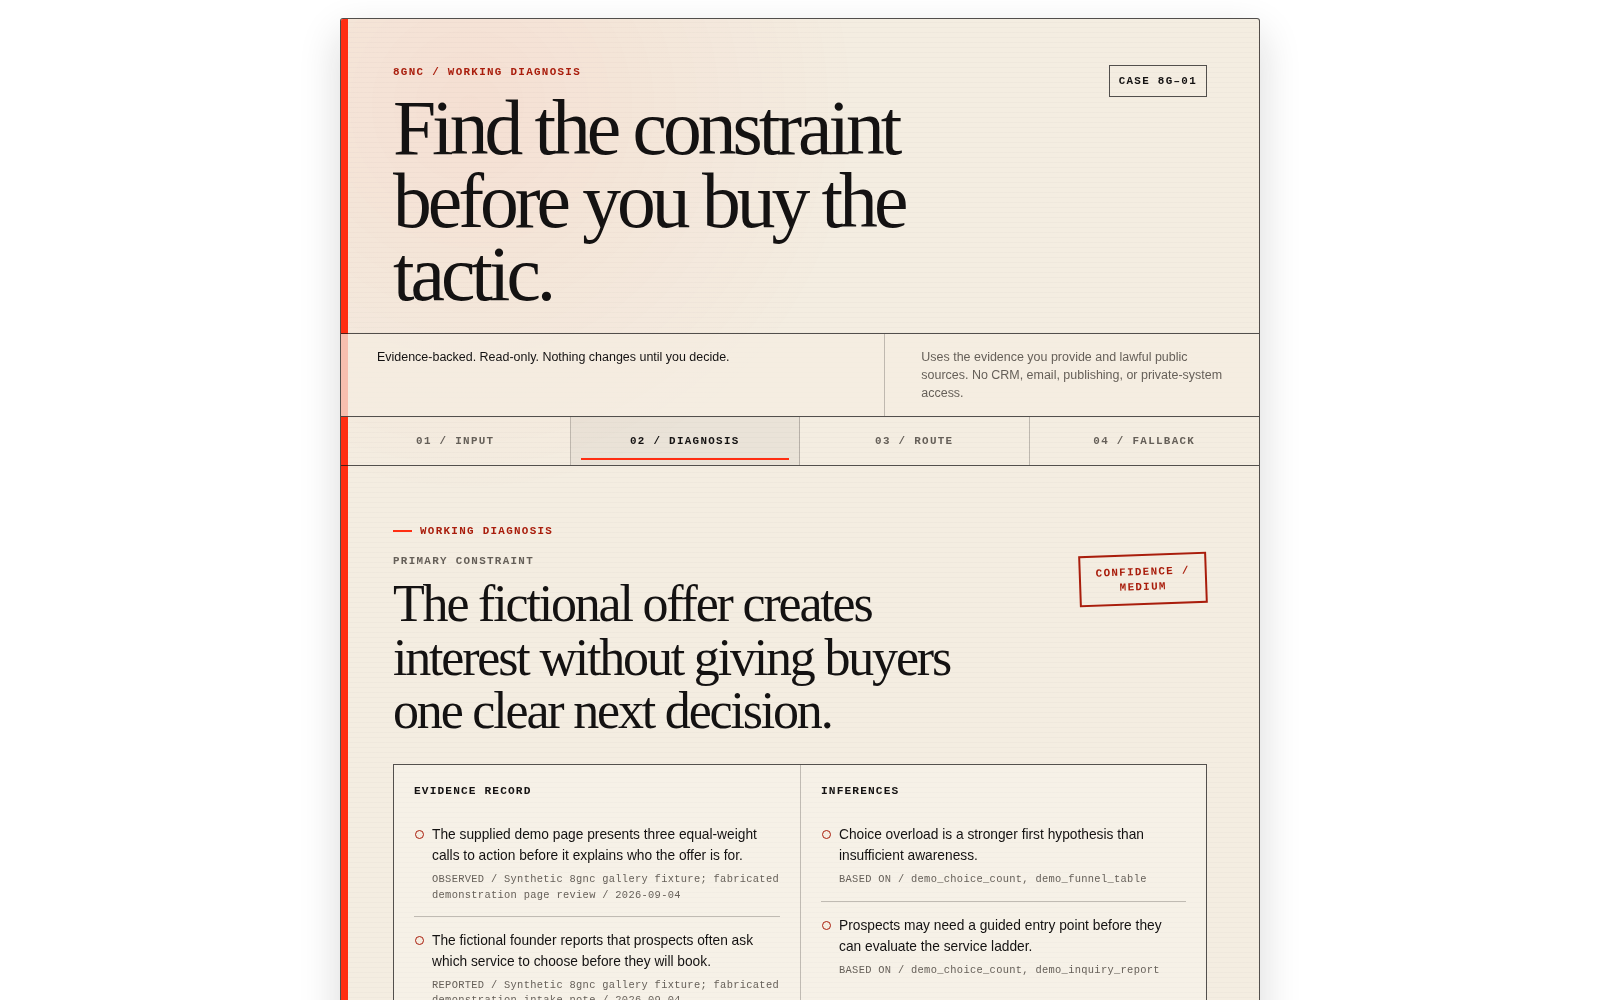
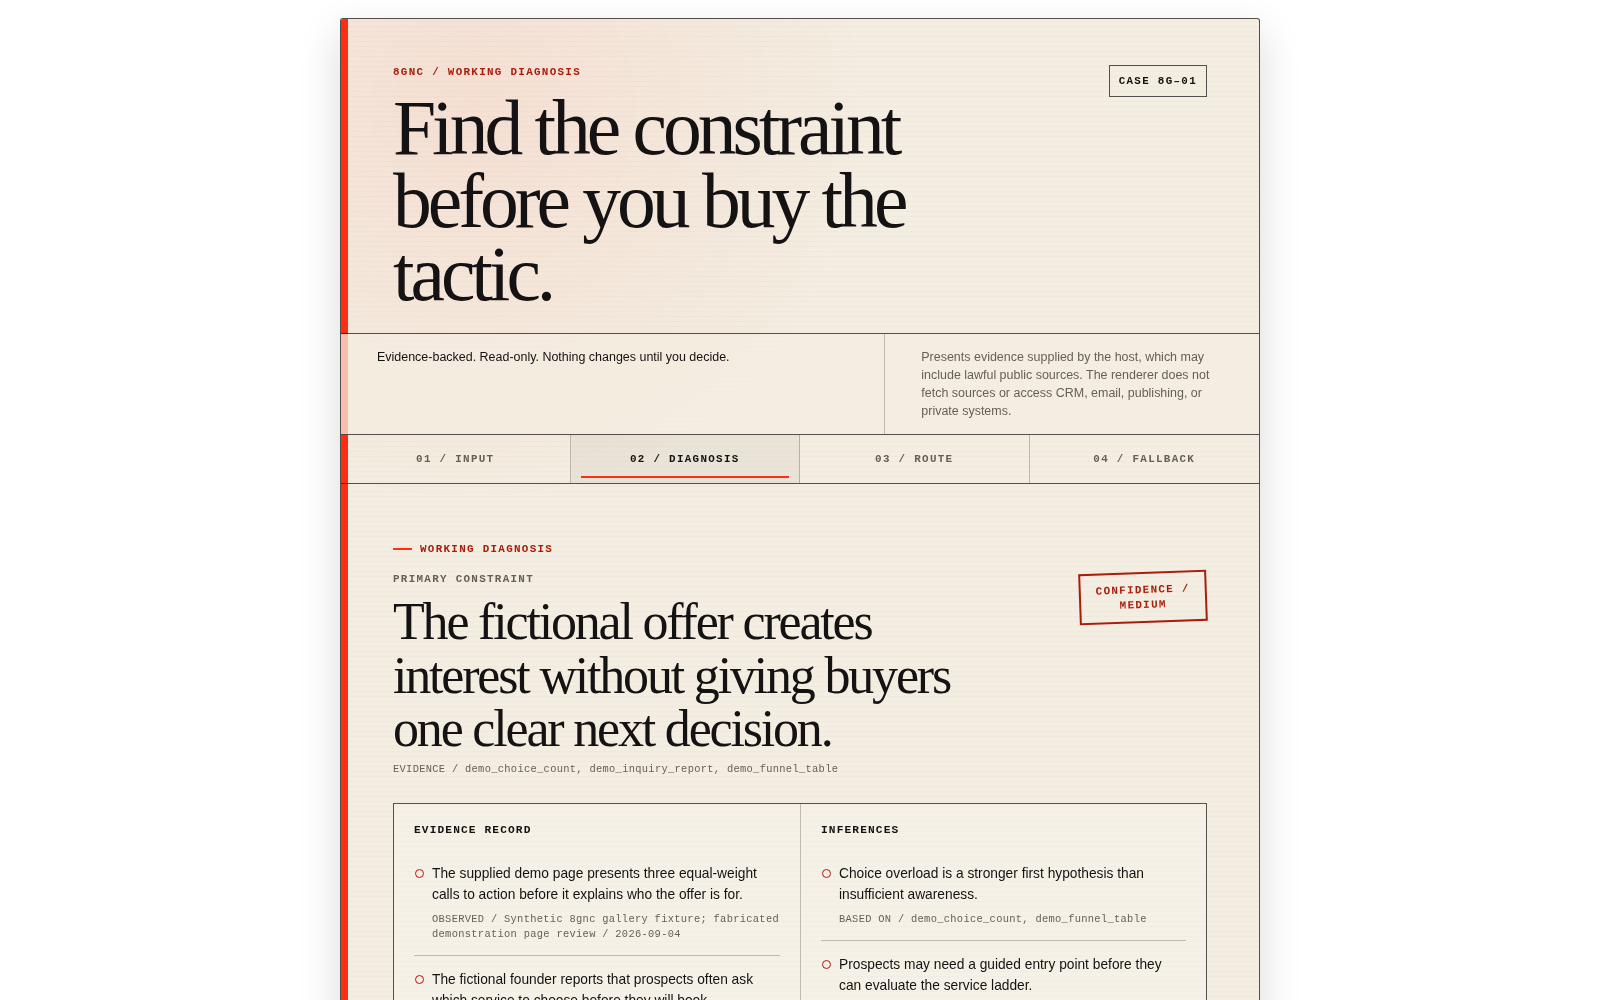
fix: bind working diagnosis claims to evidence

diff --git a/mcp/src/ui.ts b/mcp/src/ui.ts
@@ -626,7 +626,7 @@ export const WORKING_DIAGNOSIS_UI = `<!doctype html>
 
     <div class="status-strip" aria-label="Capability boundary">
       <p id="evidence-status">Read-only. Nothing changes until you decide.</p>
-      <p>Uses the evidence you provide and lawful public sources. No CRM, email, publishing, or private-system access.</p>
+      <p>Presents evidence supplied by the host, which may include lawful public sources. The renderer does not fetch sources or access CRM, email, publishing, or private systems.</p>
     </div>
 
     <nav class="tabs" role="tablist" aria-label="Working diagnosis views">
@@ -658,6 +658,7 @@ export const WORKING_DIAGNOSIS_UI = `<!doctype html>
           <div>
             <span class="field-label">Primary constraint</span>
             <p class="constraint" id="primary-constraint">Awaiting evidence.</p>
+            <span class="record-meta" id="constraint-evidence">EVIDENCE / AWAITING RESULT</span>
           </div>
           <div class="stamp" id="confidence-stamp">Confidence / —</div>
         </div>
@@ -916,6 +917,14 @@ export const WORKING_DIAGNOSIS_UI = `<!doctype html>
           working.hidden = false;
           setText("evidence-status", "Evidence-backed. Read-only. Nothing changes until you decide.", "Evidence-backed. Read-only. Nothing changes until you decide.");
           setText("primary-constraint", diagnosis.primaryConstraint, "Primary constraint not supplied.");
+          var constraintEvidenceIds = asList(diagnosis.primaryConstraintEvidenceIds).filter(function (id) {
+            return typeof id === "string" && id.trim();
+          });
+          setText(
+            "constraint-evidence",
+            constraintEvidenceIds.length ? "EVIDENCE / " + constraintEvidenceIds.join(", ") : "EVIDENCE / NOT SUPPLIED",
+            "EVIDENCE / NOT SUPPLIED"
+          );
           setText("confidence-stamp", "Confidence / " + asText(diagnosis.confidence, "—"), "Confidence / —");
           renderEvidence(asList(diagnosis.evidence));
           renderInferences(asList(diagnosis.inferences));

diff --git a/mcp/src/server.ts b/mcp/src/server.ts
@@ -37,7 +37,7 @@ export function create8gncServer(): McpServer {
     },
     {
       instructions:
-        "Use the installed 8gnc skills to complete the diagnosis before calling render_working_diagnosis. Supply only evidence-backed observations and clearly labeled inferences. If required provenance or a valid as-of date is missing, return status 'blocked'. The renderer validates and presents a supplied diagnosis; it does not originate the diagnosis or decide whether it is correct."
+        "Use the installed 8gnc skills to complete the diagnosis before calling render_working_diagnosis. Supply only evidence-backed observations and clearly labeled inferences. Cite the evidence IDs supporting the primary constraint. If required evidence, provenance, or a valid as-of date is missing, return status 'blocked'. The renderer schema-validates, normalizes, serializes, and presents a supplied diagnosis; it does not originate the diagnosis or decide whether it is correct."
     }
   );
 
@@ -67,7 +67,7 @@ export function create8gncServer(): McpServer {
     {
       title: "Render Working Diagnosis",
       description:
-        "Validate and present an already-completed 8gnc WorkingDiagnosisV1. This renderer does not diagnose, research, fetch, contact, store, publish, send, approve, or change anything. Use status 'blocked' when required provenance or a valid as-of date is missing.",
+        "Schema-validate, normalize, serialize, and present an already-completed 8gnc WorkingDiagnosisV1. This renderer does not diagnose, verify truth, research, fetch, contact, store, publish, send, approve, or change anything. Use status 'blocked' when required evidence, provenance, or a valid as-of date is missing.",
       inputSchema: WorkingDiagnosisV1Schema,
       outputSchema: WorkingDiagnosisResultV1Schema,
       annotations: {

diff --git a/mcp/src/schema.ts b/mcp/src/schema.ts
@@ -106,6 +106,10 @@ export const WorkingDiagnosisSchema = z
     status: z.literal("working"),
     input: DiagnosisInputSchema,
     primaryConstraint: text("primaryConstraint", 2_000),
+    primaryConstraintEvidenceIds: z
+      .array(z.string().trim().min(1))
+      .min(1, "primaryConstraint must cite at least one evidence id")
+      .max(12),
     confidence: z.enum(["low", "medium", "high"]),
     evidence: z.array(EvidenceSchema).min(1, "a working diagnosis requires evidence").max(24),
     inferences: z.array(InferenceSchema).max(16),
@@ -131,6 +135,26 @@ export const WorkingDiagnosisSchema = z
         });
       }
       evidenceIds.add(item.id);
+    }
+
+    const constraintEvidenceIds = new Set<string>();
+    for (const [referenceIndex, evidenceId] of diagnosis.primaryConstraintEvidenceIds.entries()) {
+      if (constraintEvidenceIds.has(evidenceId)) {
+        context.addIssue({
+          code: "custom",
+          message: `duplicate primary constraint evidence reference: ${evidenceId}`,
+          path: ["primaryConstraintEvidenceIds", referenceIndex]
+        });
+      }
+      constraintEvidenceIds.add(evidenceId);
+
+      if (!evidenceIds.has(evidenceId)) {
+        context.addIssue({
+          code: "custom",
+          message: `unknown primary constraint evidence reference: ${evidenceId}`,
+          path: ["primaryConstraintEvidenceIds", referenceIndex]
+        });
+      }
     }
 
     for (const [inferenceIndex, inference] of diagnosis.inferences.entries()) {

diff --git a/mcp/test/schema.test.ts b/mcp/test/schema.test.ts
@@ -11,6 +11,7 @@ const workingDiagnosis = () => ({
   status: "working" as const,
   input: { summary: "Traffic is growing, but qualified consultations are flat." },
   primaryConstraint: "The offer page does not make the next decision legible.",
+  primaryConstraintEvidenceIds: ["analytics-aug", "owner-report"],
   confidence: "medium" as const,
   evidence: [
     {
@@ -98,6 +99,14 @@ describe("WorkingDiagnosisV1Schema", () => {
     unknown.inferences[0]!.basedOnEvidenceIds = ["not-supplied"];
     const unknownResult = WorkingDiagnosisV1Schema.safeParse(unknown);
     expect(unknownResult.success).toBe(false);
+
+    const duplicateConstraintReference = workingDiagnosis();
+    duplicateConstraintReference.primaryConstraintEvidenceIds = ["analytics-aug", "analytics-aug"];
+    expect(WorkingDiagnosisV1Schema.safeParse(duplicateConstraintReference).success).toBe(false);
+
+    const unknownConstraintReference = workingDiagnosis();
+    unknownConstraintReference.primaryConstraintEvidenceIds = ["not-supplied"];
+    expect(WorkingDiagnosisV1Schema.safeParse(unknownConstraintReference).success).toBe(false);
   });
 
   it("allows only the exact 37 installed methods", () => {

diff --git a/mcp/test/markdown.test.ts b/mcp/test/markdown.test.ts
@@ -10,6 +10,7 @@ describe("renderWorkingDiagnosisMarkdown", () => {
       status: "working",
       input: { summary: "The pipeline is stalled." },
       primaryConstraint: "The offer is difficult to compare.",
+      primaryConstraintEvidenceIds: ["page-review"],
       confidence: "medium",
       evidence: [
         {
@@ -40,10 +41,11 @@ describe("renderWorkingDiagnosisMarkdown", () => {
     const markdown = renderWorkingDiagnosisMarkdown(diagnosis);
     expect(markdown).toContain("# Working Diagnosis");
     expect(markdown).toContain("## Evidence");
+    expect(markdown).toContain("**Constraint evidence:** page-review");
     expect(markdown).toContain("Owner-supplied page capture.");
     expect(markdown).toContain("## Smallest useful route");
     expect(markdown).toContain("`ux-ui-psych`");
-    expect(markdown).toContain("No CRM, email, publishing, or private-system access.");
+    expect(markdown).toContain("The renderer does not fetch sources or access CRM, email, publishing, or private systems.");
   });
 
   it("explains a blocked result without manufacturing a diagnosis", () => {

diff --git a/mcp/src/markdown.ts b/mcp/src/markdown.ts
@@ -1,7 +1,7 @@
 import type { BlockedDiagnosis, WorkingDiagnosis, WorkingDiagnosisV1 } from "./schema";
 
 const BOUNDARY =
-  "Uses the evidence you provide and lawful public sources. No CRM, email, publishing, or private-system access.";
+  "Presents evidence supplied by the host, which may include lawful public sources. The renderer does not fetch sources or access CRM, email, publishing, or private systems.";
 
 function escapeMarkdown(value: string): string {
   return value.replace(/([\\`*_{}\[\]()<>#+!|])/g, "\\$1");
@@ -47,6 +47,8 @@ function renderWorking(diagnosis: WorkingDiagnosis): string {
     "## Primary constraint",
     "",
     escapeMarkdown(diagnosis.primaryConstraint),
+    "",
+    `**Constraint evidence:** ${diagnosis.primaryConstraintEvidenceIds.map(escapeMarkdown).join(", ")}`,
     "",
     `**Confidence:** ${diagnosis.confidence}`,
     "",

diff --git a/mcp/test/ui.test.ts b/mcp/test/ui.test.ts
@@ -14,8 +14,9 @@ describe("Working Diagnosis MCP Apps UI", () => {
       "Evidence threshold not met. Read-only. Nothing changes until you decide.",
     );
     expect(WORKING_DIAGNOSIS_UI).toContain(
-      "Uses the evidence you provide and lawful public sources. No CRM, email, publishing, or private-system access.",
+      "Presents evidence supplied by the host, which may include lawful public sources. The renderer does not fetch sources or access CRM, email, publishing, or private systems.",
     );
+    expect(WORKING_DIAGNOSIS_UI).toContain("diagnosis.primaryConstraintEvidenceIds");
     expect(WORKING_DIAGNOSIS_UI.match(/<section class="panel"[^>]*role="tabpanel"/g)).toHaveLength(4);
     expect(WORKING_DIAGNOSIS_UI).toContain('data-view="input"');
     expect(WORKING_DIAGNOSIS_UI).toContain('data-view="diagnosis"');

diff --git a/mcp/test/server.test.ts b/mcp/test/server.test.ts
@@ -66,6 +66,7 @@ describe("8gnc MCP contract", () => {
         status: "working",
         input: { summary: "Qualified traffic grows while consultation starts stay flat." },
         primaryConstraint: "Offer clarity is the likeliest current constraint.",
+        primaryConstraintEvidenceIds: ["august-funnel"],
         confidence: "medium",
         evidence: [
           {

diff --git a/docs/RELEASE-NOTES-0.3.0.md b/docs/RELEASE-NOTES-0.3.0.md
@@ -6,7 +6,7 @@ Version 0.3.0 keeps the same 37-skill Brand Growth Diagnostic and adds an option
 
 After the host has produced an evidence-backed working diagnosis, one read-only tool can render the result as a compact case file: the problem supplied, evidence and inferences, the primary constraint, the smallest useful route, and the decision that remains with the user. A complete Markdown version is always returned for hosts that do not render the interface.
 
-The renderer does not diagnose the business, perform research, decide how long evidence remains useful, or verify that a claim is true. It validates and presents the structured diagnosis it is given. If provenance or a valid non-future as-of date is missing, the result must be blocked or rejected instead of filled with invented support.
+The renderer does not diagnose the business, perform research, decide how long evidence remains useful, or verify that a claim is true. It schema-validates, normalizes, serializes, and presents the structured diagnosis it is given. The primary constraint must cite known evidence IDs. If required evidence, provenance, or a valid non-future as-of date is missing, the result must be blocked or rejected instead of filled with invented support.
 
 ## Platform behavior
 

diff --git a/docs/PUBLIC-RELEASE.md b/docs/PUBLIC-RELEASE.md
@@ -8,7 +8,7 @@ This runbook separates reversible release preparation from deployment and public
 - Claude Code remains skills-only: its marketplace entry uses `source: "./"`, `strict: false`, and `skills: "./plugins/8gnc/skills/"`, with no MCP declaration or root `.mcp.json`.
 - Codex/ChatGPT declare exactly one MCP server, `eightgnc`, at `https://mcp.8gnc.io/mcp`.
 - The server exposes exactly one read-only tool, `render_working_diagnosis`, and one UI resource, `ui://8gnc/working-diagnosis/v1.html`.
-- The renderer validates and presents a caller-supplied diagnosis; it does not perform diagnosis or research.
+- The renderer schema-validates, normalizes, serializes, and presents a caller-supplied diagnosis; it does not perform diagnosis, truth verification, or research.
 - The server has no authentication, storage, analytics, telemetry, cookies, outbound fetches, CRM, email, sending, publishing, deployment, or private-system access.
 - Structured content and the Markdown fallback carry the complete user-facing result. UI metadata is presentation-only.
 

diff --git a/docs/SUBMISSION.md b/docs/SUBMISSION.md
@@ -34,7 +34,7 @@ Bring an unclear offer, a stalled brand, weak conversion, invisible search prese
 
 In compatible Codex and ChatGPT hosts, 8gnc can present the completed result as a read-only Working Diagnosis case file. The interface shows the supplied problem, evidence and inferences, the primary constraint, the smallest useful route, and the human decision gate. A complete Markdown result remains available without the interface.
 
-8gnc cannot access private client systems, approve work, send email, publish, purchase, deploy, or change external state. The renderer does not perform research or determine whether a diagnosis is true; it validates and presents the structured result supplied by the host.
+8gnc cannot access private client systems, approve work, send email, publish, purchase, deploy, or change external state. The renderer does not perform research or determine whether a diagnosis is true; it schema-validates, normalizes, serializes, and presents the structured result supplied by the host.
 
 ### Starter prompts
 

diff --git a/docs/DATA-FLOW.md b/docs/DATA-FLOW.md
@@ -29,7 +29,7 @@ render_working_diagnosis
 
 ## Data sent to the renderer
 
-The renderer receives only the fields in the tool call. Depending on the result state, those fields may include the user's problem summary, evidence statements, provenance labels, as-of dates, inferences tied to evidence IDs, unknowns, confidence, the smallest useful route, and a human decision gate.
+The renderer receives only the fields in the tool call. Depending on the result state, those fields may include the user's problem summary, evidence statements, provenance labels, as-of dates, a primary constraint tied to evidence IDs, inferences tied to evidence IDs, unknowns, confidence, the smallest useful route, and a human decision gate.
 
 Users and hosts should not place credentials, secrets, raw private exports, or unnecessary personal data in a diagnosis. Evidence can be summarized and redacted before the tool call.
 
